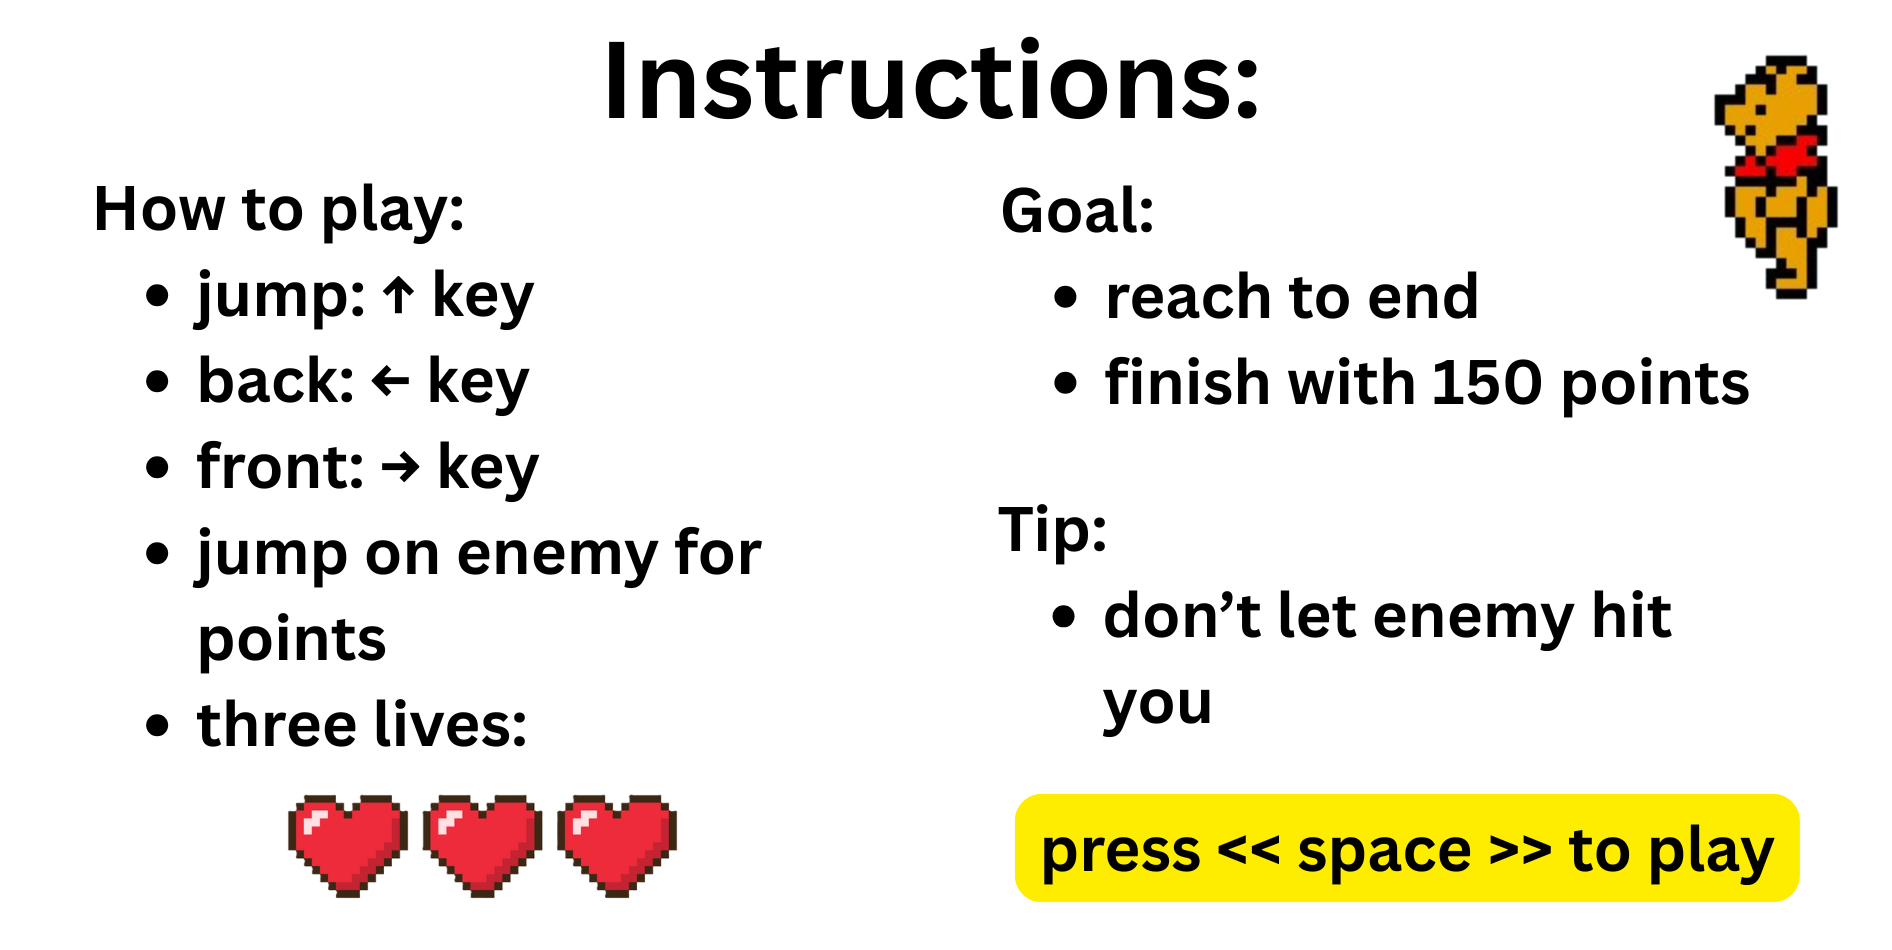
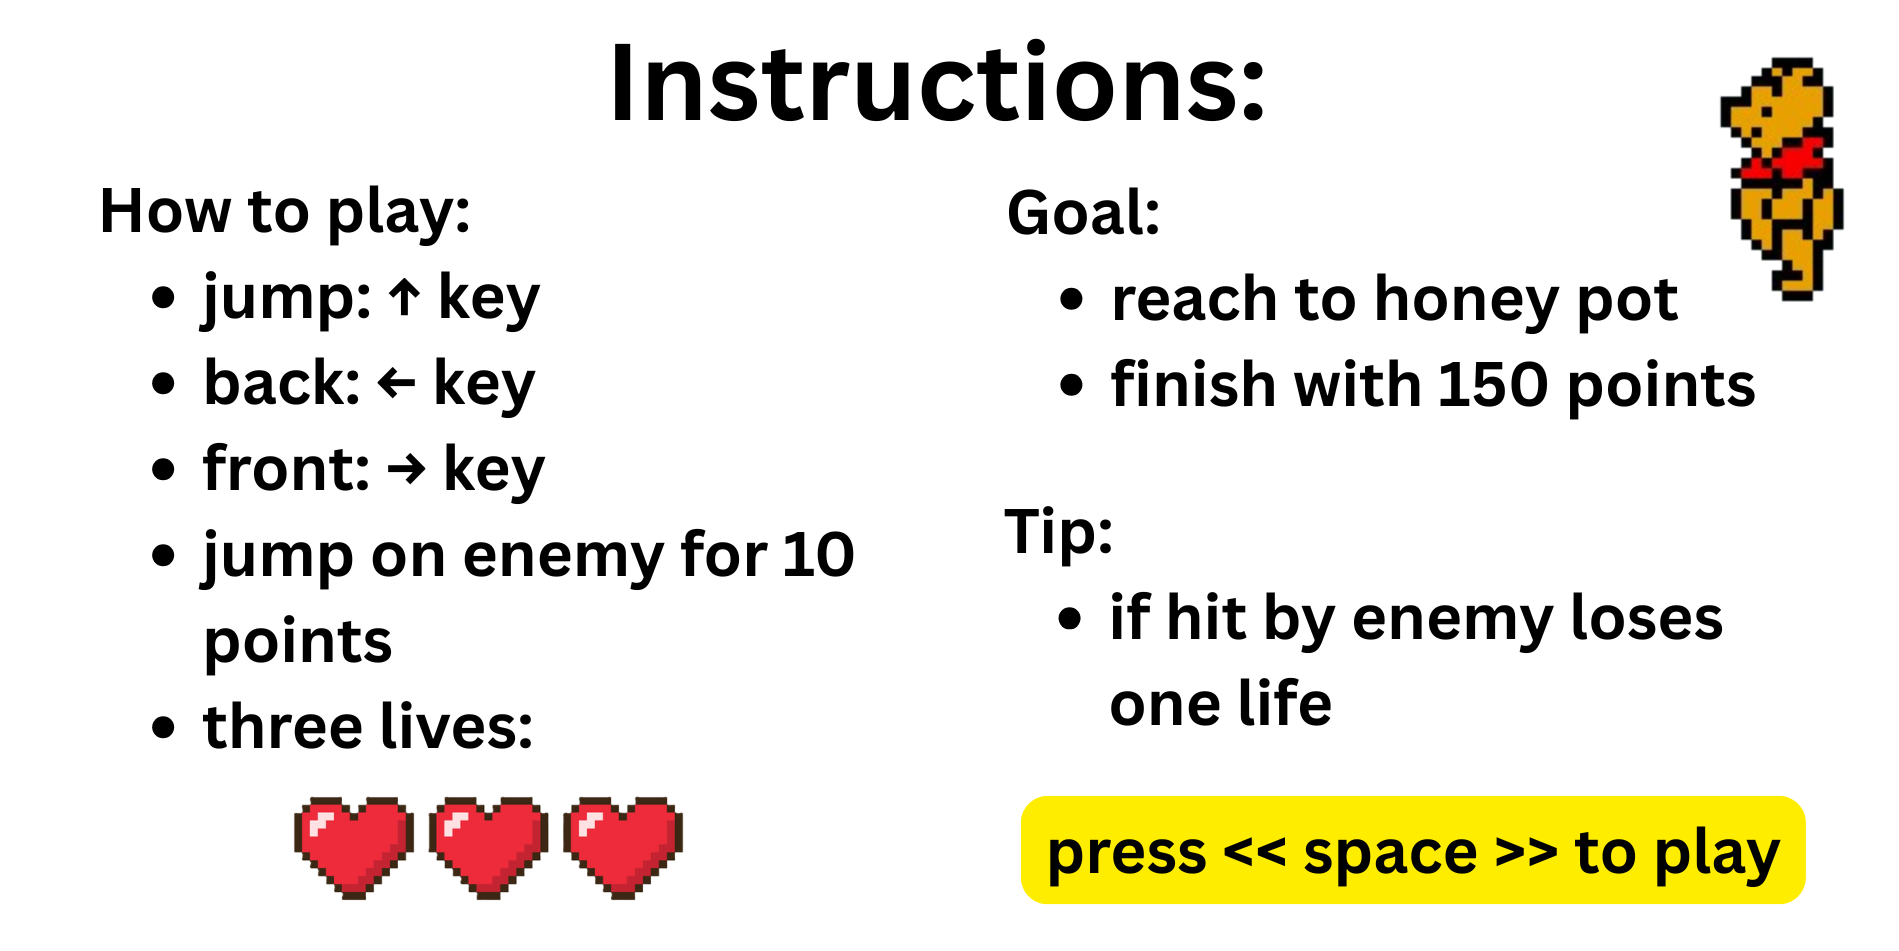
Update Instructions screen

diff --git a/Winnie.java b/Winnie.java
@@ -284,7 +284,7 @@ public class Winnie extends Actor {
     */
    private void fall(){
        // if the winner wins
-       if(distanceTravelled >= 8000) {
+       if(distanceTravelled >= 7950) {
            canMove = false;
            
            // final score
